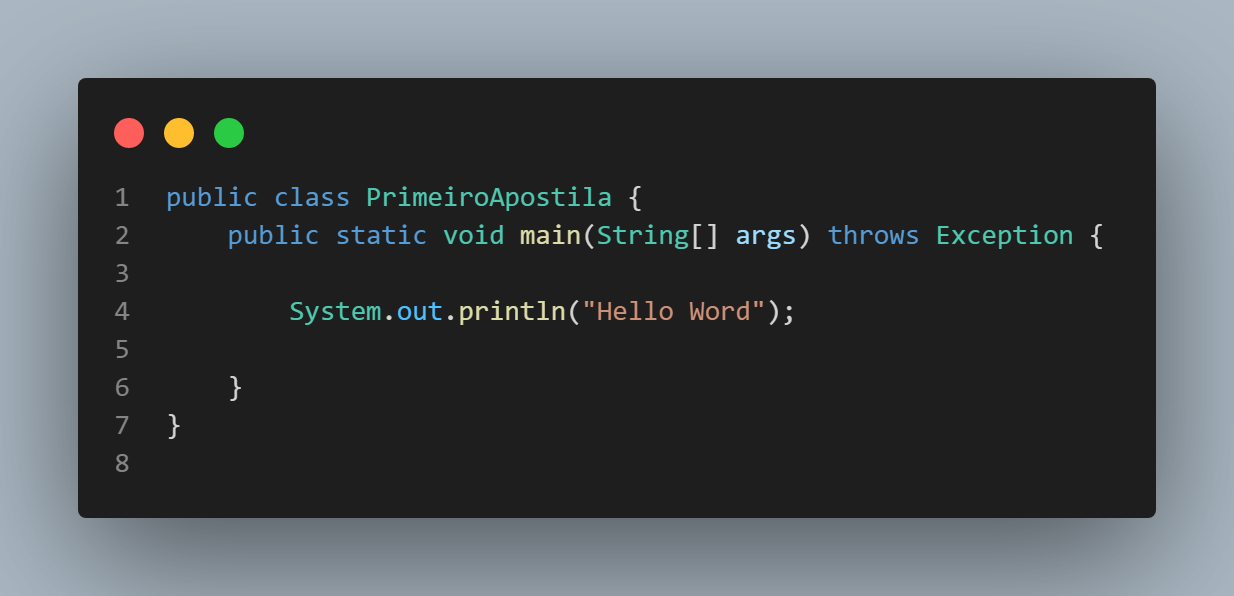
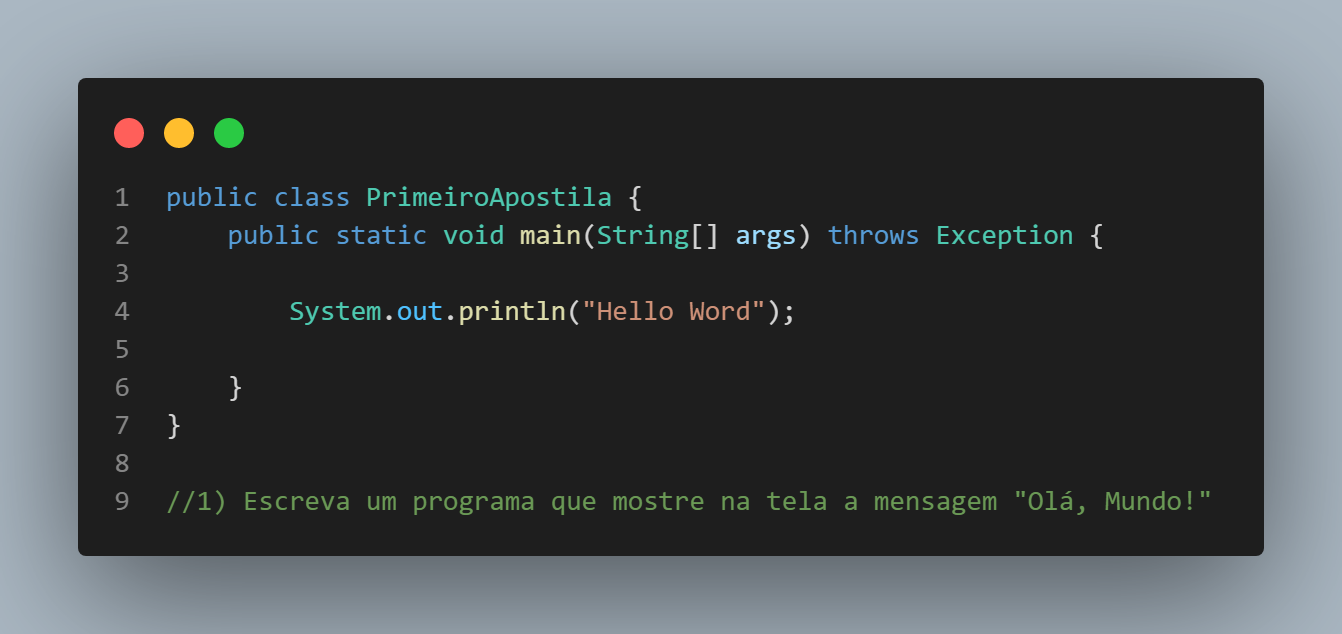
adicionado novas imagens, alteração de codigos e novos codigos

diff --git a/exerciciosApostila/src/QuintoApostila.java b/exerciciosApostila/src/QuintoApostila.java
@@ -1,0 +1,38 @@
+import java.util.Scanner;
+
+public class QuintoApostila {
+    public static void main(String[] args) throws Exception {
+
+        float u1;
+        float u2;
+        float u3;
+        float media;
+
+
+         Scanner input = new Scanner(System.in);
+
+
+         System.out.print("Digite sua nota em Portugês na 1º Unidade : ");
+            u1 = input.nextFloat();
+
+
+         System.out.print("Digite sua nota em Portugês na 2º Unidade: ");
+            u2 = input.nextFloat();
+
+            media = (u1+u2) /2;
+
+            System.out.println("A média entre " +u1 + " e " +u2 + " é igual a " +media);
+
+
+         }
+    } 
+
+
+    /* 5) Faça um programa que leia as duas notas de um aluno em uma matéria e mostre
+     * na tela a sua média na disciplina.
+     * Ex:
+     * Nota 1: 4.5
+     * Nota 2: 8.5
+     * A média entre 4.5 e 8.5 é igual a 6.5
+     *
+     */

diff --git a/exerciciosApostila/src/TerceiroApostila.java b/exerciciosApostila/src/TerceiroApostila.java
@@ -22,3 +22,12 @@ public class TerceiroApostila {
 }
 
 //erros a resolver: quando do espaco da erro no codigo
+
+    /*    3) Crie um programa que leia o nome e o salário de um funcionário, mostrando no
+    *final uma mensagem.
+    *Ex:
+    *Nome do Funcionário: Maria do Carmo
+    *Salário: 1850,45
+    *O funcionário Maria do Carmo tem um salário de R$1850,45 em Junho.
+    *
+    */

diff --git a/exerciciosApostila/src/SegundoApostila.java b/exerciciosApostila/src/SegundoApostila.java
@@ -12,9 +12,12 @@ public class SegundoApostila {
 
         System.out.println("Olá " +name + ", é um prazer te conhecer. ");
 
-
-
-       
-         
     }
 }
+
+/* 2) Faça um programa que leia o nome de uma pessoa e mostre uma mensagem de boasvindas para ela:
+    *   Ex:
+    *  Qual é o seu nome? João da Silva
+    *    Olá João da Silva, é um prazer te conhecer!
+    *
+ */

diff --git a/exerciciosApostila/src/QuartoApostila.java b/exerciciosApostila/src/QuartoApostila.java
@@ -20,3 +20,12 @@ public class QuartoApostila {
         System.out.println("Seu Resultado é: " +sun);
     }
 }
+
+/* 4) Desenvolva um algoritmo que leia dois números inteiros e mostre o somatório
+    *entre eles.
+    *Ex:
+    *Digite um valor: 8
+    *Digite outro valor: 5
+    *A soma entre 8 e 5 é igual a 13.
+    *
+    */

diff --git a/exerciciosApostila/src/QuartoApostila2.java b/exerciciosApostila/src/QuartoApostila2.java
@@ -22,3 +22,13 @@ public class QuartoApostila2 {
         return values;
     }
 }
+
+
+    /* 4) Desenvolva um algoritmo que leia dois números inteiros e mostre o somatório
+    *entre eles.
+    *Ex:
+    *Digite um valor: 8
+    *Digite outro valor: 5
+    *A soma entre 8 e 5 é igual a 13.
+    *
+    */

diff --git a/exerciciosApostila/src/PrimeiroApostila.java b/exerciciosApostila/src/PrimeiroApostila.java
@@ -5,3 +5,5 @@ public class PrimeiroApostila {
          
     }
 }
+
+//1) Escreva um programa que mostre na tela a mensagem "Olá, Mundo!"

diff --git a/exerciciosApostila/README.md b/exerciciosApostila/README.md
@@ -1,18 +1,4 @@
 ## Getting Started
-
-Welcome to the VS Code Java world. Here is a guideline to help you get started to write Java code in Visual Studio Code.
-
-## Folder Structure
-
-The workspace contains two folders by default, where:
-
-- `src`: the folder to maintain sources
-- `lib`: the folder to maintain dependencies
-
-Meanwhile, the compiled output files will be generated in the `bin` folder by default.
-
-> If you want to customize the folder structure, open `.vscode/settings.json` and update the related settings there.
-
-## Dependency Management
-
-The `JAVA PROJECTS` view allows you to manage your dependencies. More details can be found [here](https://github.com/microsoft/vscode-java-dependency#manage-dependencies).
+Exercícios de Algoritmos
+Prof. Gustavo Guanabara
+PASSO 01 - SEQUÊNCIAS BÁSICAS
